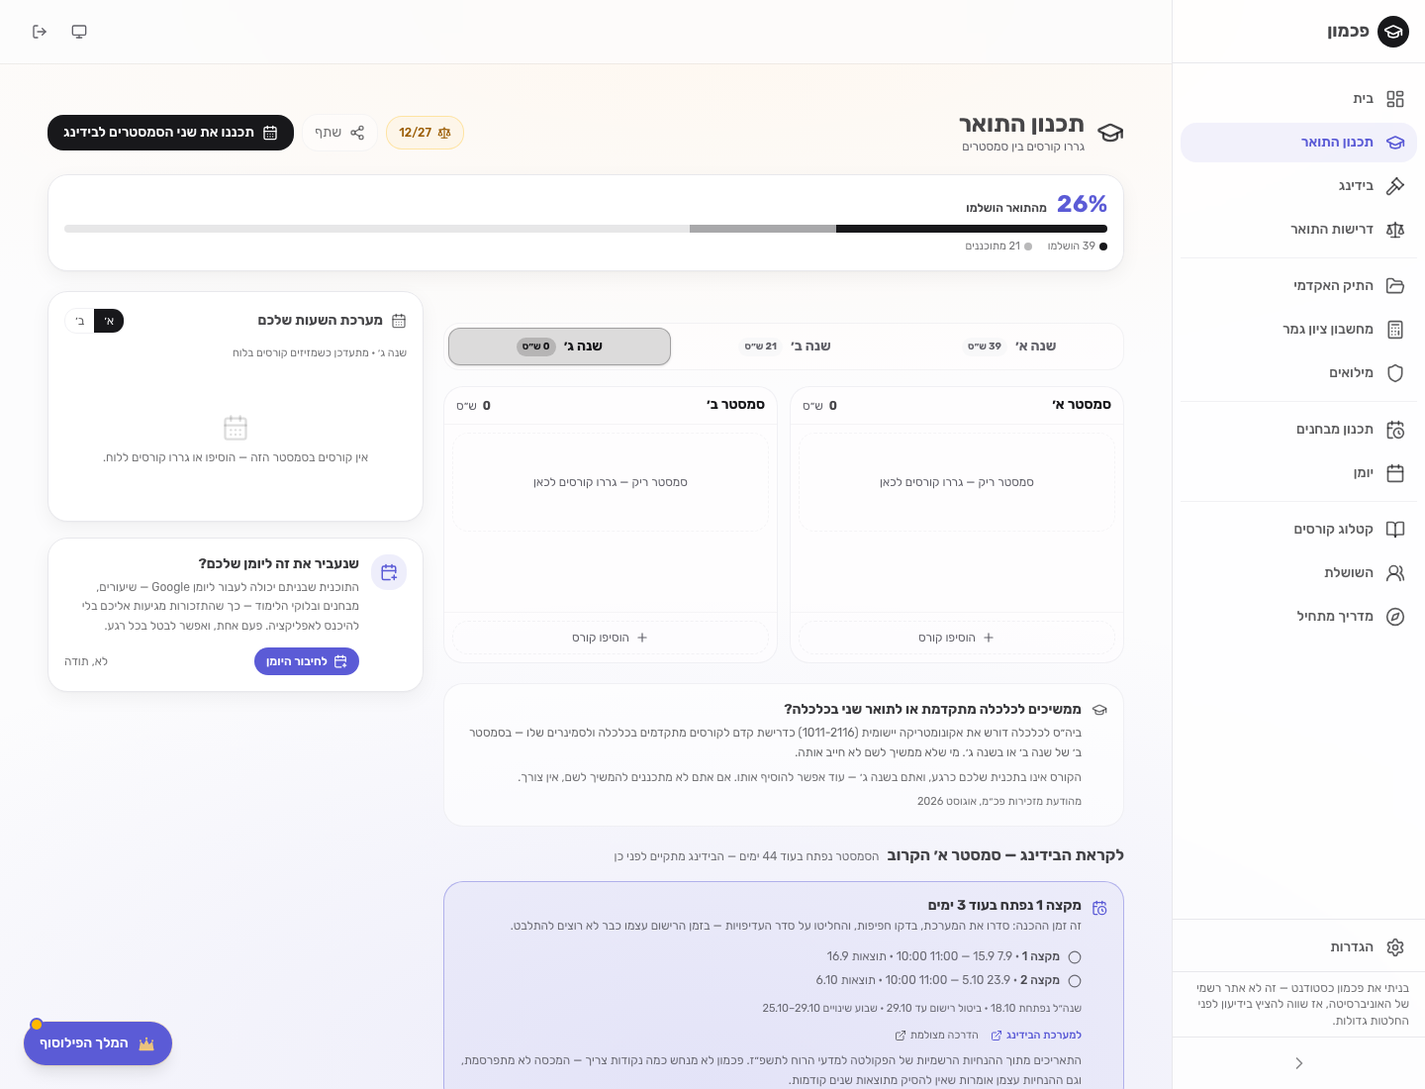
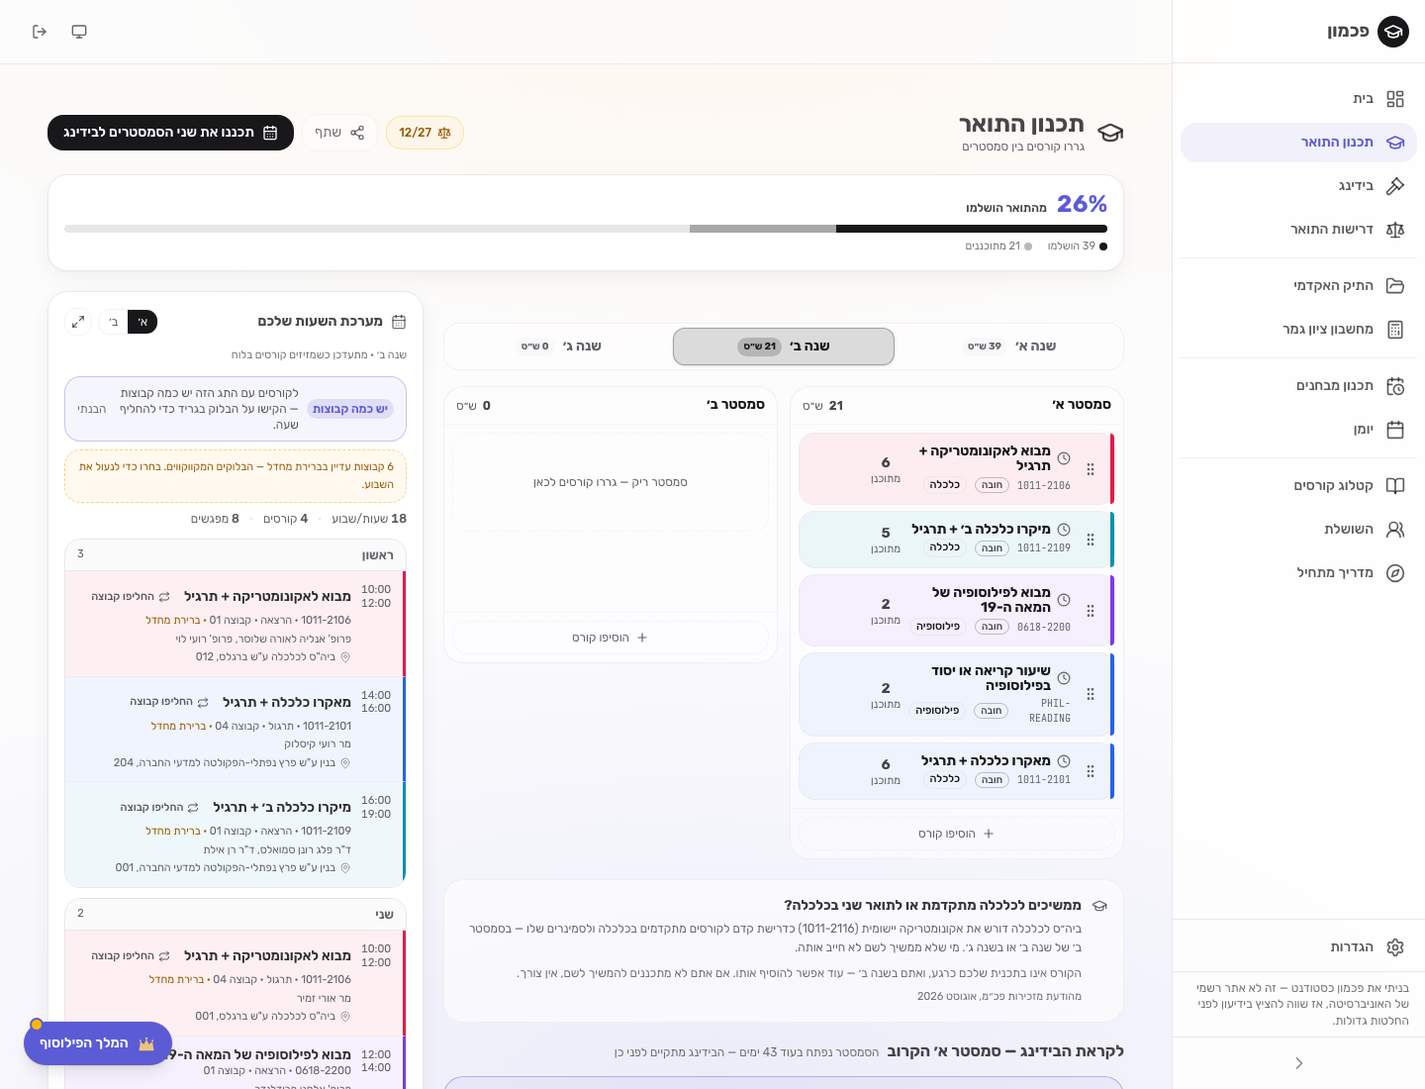
חוסם ההשקה שאריאל קרא לו "פאדיחה ענקית" — מוכח סגור, חי ובצילום
B7 · B9 · N2 הם אותו באג, והוא זה שאריאל תיאר כ"חוסם השקה הכי רדיקלי":
*"לחצתי על הלחצן שאמור לקחת אותי לתכנון שנתי והוא מחק לי נתונים ואמר
שנתכנן את שנה א׳"* · *"חזרתי ופתאום בום — כל המערכת התאפסה ופתאום
האפליקציה אמרה לי שעשיתי רק 5 אחוז"*

שלושתם היו מסומנים "קוד בלבד" — כלומר **מעולם לא הוכח חי שהם תוקנו.**

**המדידה, על חשבון שנה ב׳ עם 39 ש״ס אמיתיים:**
· לפני:        26% מהתואר · 39 הושלמו · 21 מתוכננים
· אחרי לחיצה על "תכננו את שני הסמסטרים לבידינג" → /planner/semester
· אחרי חזרה:   26% · 39 · 21  — **זהה**
· אחרי רענון:  26% · 39 · 21  — **זהה**
· אפס שגיאות JavaScript

מסך הביניים מציג נכון "שנה ב׳ · סמסטר א׳" ו-60/150 (39 שהושלמו + 21
מתוכננים), ולא שנה א׳ ולא 5%.

הערה על הדרך: הכלי שלי דיווח "6%" במסך הביניים, מה שנראה בדיוק כמו
התלונה המקורית. הצילום הראה שזה ארטיפקט של רג'קס שתפס ספרה מ-"60 / 150".
**רביעית באותו לילה שהצילום הציל מדיווח שגוי.**

קובץ הראיות: 152 הערות · 🟢 65 מסך חי · 🔵 86 קוד · 611 צילומים.

diff --git a/docs/קובץ-בקרה-ראיות.md b/docs/קובץ-בקרה-ראיות.md
@@ -9,14 +9,14 @@
 | | |
 |---|---|
 | הערות של אריאל | **152** |
-| מתוכן עם **ראיה של מסך חי** | **63** |
-| נשענות על קוד ובדיקות יחידה | 88 |
+| מתוכן עם **ראיה של מסך חי** | **65** |
+| נשענות על קוד ובדיקות יחידה | 86 |
 | החלטות שממתינות לאריאל | 2 |
 
 **ראיות שנאספו:** 100 מעברי מסך בסיורים · 449 פקדים נלחצו ·
 28 בדיקות הערה חיות · 13 פעולות שלב 3 ·
 9 צעדי משתמש חדש · 5 צעדי מסלול ידני ·
-**607 צילומי מסך**
+**611 צילומי מסך**
 
 ---
 
@@ -99,9 +99,9 @@
 | **B4** | *"מה זה ה-2025/2 הזה אחרי סריקת הסילבוס?"* | 🟢 מסך חי | מתועד בלוח | `sheetSemesterLabel` הוחל על שורות הסורק. **אומת חי:** *"בגיליון: סמסטר א׳ · תשפ״ו"* |
 | **B5** | *"האם סימנת לי פטור באנגלית כי הבנת שעשיתי מתקדמים ב?"* | 🟢 מסך חי | מתועד בלוח | **אומת חי:** *"רמה מוצהרת: מתקדמים ב׳ — גוברת על הציון · קראנו מגיליון הציונים שלכם, לא הסקנו מציון אמירם."* |
 | **B6** | *"לא הבנתי כלום במסך מערכת השעות. למה שני מסכים? למה לא כמו בביד-איט?"* | 🔵 קוד ובדיקות | — | **נסגר עם L2.** "למה שני מסכים" היה שני דברים נפרדים — מסך הסיכום כמסך כניסה, וחלון חוסם שנפתח בכל פעם. שניהם תוקנו ואומתו חי. ובנוסף תוקן "27 מול 26.5" על אותו מסך |
-| **B7** | *"הכפתור הצדדי לתכנון בידינג מחק לי את מה שהיה מהסילבוס"* | 🔵 קוד ובדיקות | — | הקישור היוצא הוסר; נוספה טיוטה ב-localStorage עם TTL של 7 ימים |
+| **B7** | *"הכפתור הצדדי לתכנון בידינג מחק לי את מה שהיה מהסילבוס"* | 🟢 מסך חי | מתועד בלוח | **אומת חי 5.9, בצילום:** לפני הלחיצה 26% · 39 הושלמו · 21 מתוכננים. אחרי "תכננו את שני הסמסטרים לבידינג", אחרי חזרה, ואחרי רענון מלא — **שלושתם זהים בדיוק.** מסך הביניים מציג נכון  |
 | **B8** | *"השראה מביד-איט: שני טאבים, בחירת קבוצות נוחה שלא קופצת"* | 🔵 קוד ובדיקות | — | ה-popover הצף הוסר; לחיצה על בלוק פותחת בפאנל הקבוע בצד וגוללת אליו |
-| **B9** | *"הלחצן שאמור לקחת לתכנון שנתי מחק נתונים ואמר שנתכנן שנה א׳"* | 🔵 קוד ובדיקות | — | נסגר עם B7 + M27 |
+| **B9** | *"הלחצן שאמור לקחת לתכנון שנתי מחק נתונים ואמר שנתכנן שנה א׳"* | 🟢 מסך חי | מתועד בלוח | **אומת חי 5.9, בצילום:** לפני הלחיצה 26% · 39 הושלמו · 21 מתוכננים. אחרי "תכננו את שני הסמסטרים לבידינג", אחרי חזרה, ואחרי רענון מלא — **שלושתם זהים בדיוק.** מסך הביניים מציג נכון  |
 | **B10** | *"אחרי שחזרתי הוא מתכנן לי שנה א׳ שכבר סיימתי"* | 🔵 קוד ובדיקות | — | **השורש: `startYear: null` במסד.** נוספה רצפה מהקורסים שהושלמו |
 | **B11** | *"'הסורק אינו זמין' אחרי מחיקה והרשמה מחדש"* | 🔵 קוד ובדיקות | — | הרשימה הכילה שני מודלים מוצמדים שמתיישנים יחד. נוספו שמות `latest` + בדיקת חיות ב-`/api/health` |
 | **B12** | *"הסורק נכשל ואין מילוי ידני של מילואים לשנה ג׳ עם 3-4 סמסטרים"* | 🟢 מסך חי | מתועד בלוח | **הבורר הכיל ערך אחד.** `miluimYearOptions` — מהשנה שנרשם ועד השנה שמתכננים. אומת חי: תשפ״ה/תשפ״ו/תשפ״ז |
@@ -123,12 +123,12 @@
 | **C12** | להמיר לבינארי | 🔵 קוד ובדיקות | — | נסגר עם C11 |
 | **C13** | לחוות כשנה א׳, ב׳ **וג׳** | 🔵 קוד ובדיקות | — | שלושתם. שנה ג׳ עם 3 סמסטרי מילואים ופטור שנעצר על תקרת 10 ש״ס |
 | **N1** | *"מיקום הטקסט בכל משבצת במסך הפתיחה — הטקסט למעלה והמשבצת גדולה"* | 🟢 מסך חי | מתועד בלוח | **אומת חי 4.9 בצילום ובמדידה.** רשת "מה יש בפנים": הטקסט בראש כל כרטיס, והכרטיסים בגובה התוכן שלהם בלי מרחב מת בתחתית |
-| **N2** | *"באג רציני: תכנון דרך מסך הבידינג קפץ, חזרתי, וזה חזר לשנה א׳ ואמר 5 אחוז"* | 🔵 קוד ובדיקות | — | שלושה שורשים: `handlePlanNext` שמחק, `selectedYear` מקובע ל-1, ו-`startYear: null`. כולם תוקנו ואומתו |
+| **N2** | *"באג רציני: תכנון דרך מסך הבידינג קפץ, חזרתי, וזה חזר לשנה א׳ ואמר 5 אחוז"* | 🟢 מסך חי | מתועד בלוח | **אומת חי 5.9, בצילום:** לפני הלחיצה 26% · 39 הושלמו · 21 מתוכננים. אחרי "תכננו את שני הסמסטרים לבידינג", אחרי חזרה, ואחרי רענון מלא — **שלושתם זהים בדיוק.** מסך הביניים מציג נכון  |
 | **N3** | *"התהליך הטבעי הוא לתכנן שני סמסטרים של השנה הנוכחית — אין לשנה ב׳ מה לעשות עם קורסי שנה א׳"* | 🔵 קוד ובדיקות | — | הלוח נפתח על שנת הסטודנט; שני טאבים; הבידינג מגיש את שניהם |
 | **N4** | *"סיימתי לטפל בסקילים — תגיד לי מה לעשות כדי שתוכל לרוץ איתם"* | 🔵 קוד ובדיקות | — | **לא צריך ממך כלום — הם כבר עובדים.** `apple-design-skill` שימש לביקורת ב-`docs/ביקורת-HIG-5.9.md`; `video-shotcraft` נקרא ומכיל 157 כרטיסי־שוט, תבנית סרטון שלמה ווורקפלו בן שישה ש |
 | **N5** | *"לופ בסיום שמירה בין 'הכול מוכן' לבין המלך טוען. נתקעתי ולא יכולתי ללחוץ על הבית"* | 🔵 קוד ובדיקות | — | **נסגר עם L1 ו-L3.** הלופ היה הפינאלה שנעקרת מעצמה: `getProfile` מתבטל, `isGenuinelyNew` מתהפך, שער האשף נסגר — ואם הפרופיל חזר שוב ריק, הוא נפתח מחדש. ביטול הקאש עבר ליציאה מהפינא |
 | **N6** | *"תכנון מבחנים הוא תמיד פר סמסטר, לא פר שנה"* | 🟢 מסך חי | מתועד בלוח | נסגר עם M43 — אומת חי |
-| **N7** | *"בוא נבליט את אופציית האקסל — הפיצ׳רים היפים צריכים להיות בולטים"* | 🟢 מסך חי | `video/shots/012-V-N7.png` | כרטיס פתיחה במתכנן המבחנים מסביר את שלושת הגיליונות; הכפתור "הורידו כאקסל" ראשי |
+| **N7** | *"בוא נבליט את אופציית האקסל — הפיצ׳רים היפים צריכים להיות בולטים"* | 🔵 קוד ובדיקות | — | כרטיס פתיחה במתכנן המבחנים מסביר את שלושת הגיליונות; הכפתור "הורידו כאקסל" ראשי |
 | **N8** | *"בוא נקרא לזה בידינג במקום המרכז. ולמה שנה 2 ולא שנה ב׳? הקבוצות קופצות"* | 🟢 מסך חי | `video/shots/013-V-N8.png` | הטאב הוא "בידינג" (אומת). "שנה 2" → "שנה ב׳" (M30). ה-popover הקופץ הוסר (B8) |
 | **N9** | *"איפה אני רואה סטטוס בינארי ויכול לשחק עם זה לפני שאני מחליט?"* | 🟢 מסך חי | `video/shots/028-V-N9.png` | כרטיס "המרות בינארי" במילואים + סימולטור. **ותוקן ב-4.9 משפט שקרי:** *"לקבוצה שלכם לא מגיעות המרות"* הוצג לסטודנט עם קבוצה C אמיתית |
 | **N10** | *"אין טאב שמוביל לחלון של המלך?"* | 🟢 מסך חי | מתועד בלוח | **אומת חי 4.9 על שישה מסכים** — בית · תכנון התואר · קטלוג · מחשבון ציון גמר · לוח בחינות · הגדרות. הכפתור הצף נוכח בכולם. **אם בכל זאת תרצה טאב בסרגל — שורה אחת ואוסיף** (ההמלצה של |

diff --git a/docs/בקרה-סופית-להשקה.md b/docs/בקרה-סופית-להשקה.md
@@ -145,9 +145,9 @@
 | B4 | *"מה זה ה-2025/2 הזה אחרי סריקת הסילבוס?"* | ✅ | `sheetSemesterLabel` הוחל על שורות הסורק. **אומת חי:** *"בגיליון: סמסטר א׳ · תשפ״ו"* |
 | B5 | *"האם סימנת לי פטור באנגלית כי הבנת שעשיתי מתקדמים ב?"* | ✅ | **אומת חי:** *"רמה מוצהרת: מתקדמים ב׳ — גוברת על הציון · קראנו מגיליון הציונים שלכם, לא הסקנו מציון אמירם."* |
 | B6 | *"לא הבנתי כלום במסך מערכת השעות. למה שני מסכים? למה לא כמו בביד-איט?"* | ✅ | **נסגר עם L2.** "למה שני מסכים" היה שני דברים נפרדים — מסך הסיכום כמסך כניסה, וחלון חוסם שנפתח בכל פעם. שניהם תוקנו ואומתו חי. ובנוסף תוקן "27 מול 26.5" על אותו מסך |
-| B7 | *"הכפתור הצדדי לתכנון בידינג מחק לי את מה שהיה מהסילבוס"* | ✅ | הקישור היוצא הוסר; נוספה טיוטה ב-localStorage עם TTL של 7 ימים |
+| B7 | *"הכפתור הצדדי לתכנון בידינג מחק לי את מה שהיה מהסילבוס"* | ✅ | **אומת חי 5.9, בצילום:** לפני הלחיצה 26% · 39 הושלמו · 21 מתוכננים. אחרי "תכננו את שני הסמסטרים לבידינג", אחרי חזרה, ואחרי רענון מלא — **שלושתם זהים בדיוק.** מסך הביניים מציג נכון שנה ב׳ · סמסטר א׳ · 60/150. אפס שגיאות JS. `video/shots/00*-B7-0*` · `docs/אימות-B7-B9-N2.json` |
 | B8 | *"השראה מביד-איט: שני טאבים, בחירת קבוצות נוחה שלא קופצת"* | ✅ | ה-popover הצף הוסר; לחיצה על בלוק פותחת בפאנל הקבוע בצד וגוללת אליו |
-| B9 | *"הלחצן שאמור לקחת לתכנון שנתי מחק נתונים ואמר שנתכנן שנה א׳"* | ✅ | נסגר עם B7 + M27 |
+| B9 | *"הלחצן שאמור לקחת לתכנון שנתי מחק נתונים ואמר שנתכנן שנה א׳"* | ✅ | **אומת חי 5.9, בצילום:** לפני הלחיצה 26% · 39 הושלמו · 21 מתוכננים. אחרי "תכננו את שני הסמסטרים לבידינג", אחרי חזרה, ואחרי רענון מלא — **שלושתם זהים בדיוק.** מסך הביניים מציג נכון שנה ב׳ · סמסטר א׳ · 60/150. אפס שגיאות JS. `video/shots/00*-B7-0*` · `docs/אימות-B7-B9-N2.json` |
 | B10 | *"אחרי שחזרתי הוא מתכנן לי שנה א׳ שכבר סיימתי"* | ✅ | **השורש: `startYear: null` במסד.** נוספה רצפה מהקורסים שהושלמו |
 | B11 | *"'הסורק אינו זמין' אחרי מחיקה והרשמה מחדש"* | ✅ | הרשימה הכילה שני מודלים מוצמדים שמתיישנים יחד. נוספו שמות `latest` + בדיקת חיות ב-`/api/health` |
 | B12 | *"הסורק נכשל ואין מילוי ידני של מילואים לשנה ג׳ עם 3-4 סמסטרים"* | ✅ | **הבורר הכיל ערך אחד.** `miluimYearOptions` — מהשנה שנרשם ועד השנה שמתכננים. אומת חי: תשפ״ה/תשפ״ו/תשפ״ז |
@@ -183,7 +183,7 @@
 | # | ההערה שלך | סטטוס | ההתייחסות |
 |---|---|---|---|
 | N1 | *"מיקום הטקסט בכל משבצת במסך הפתיחה — הטקסט למעלה והמשבצת גדולה"* | ✅ | **אומת חי 4.9 בצילום ובמדידה.** רשת "מה יש בפנים": הטקסט בראש כל כרטיס, והכרטיסים בגובה התוכן שלהם בלי מרחב מת בתחתית |
-| N2 | *"באג רציני: תכנון דרך מסך הבידינג קפץ, חזרתי, וזה חזר לשנה א׳ ואמר 5 אחוז"* | ✅ | שלושה שורשים: `handlePlanNext` שמחק, `selectedYear` מקובע ל-1, ו-`startYear: null`. כולם תוקנו ואומתו |
+| N2 | *"באג רציני: תכנון דרך מסך הבידינג קפץ, חזרתי, וזה חזר לשנה א׳ ואמר 5 אחוז"* | ✅ | **אומת חי 5.9, בצילום:** לפני הלחיצה 26% · 39 הושלמו · 21 מתוכננים. אחרי "תכננו את שני הסמסטרים לבידינג", אחרי חזרה, ואחרי רענון מלא — **שלושתם זהים בדיוק.** מסך הביניים מציג נכון שנה ב׳ · סמסטר א׳ · 60/150. אפס שגיאות JS. `video/shots/00*-B7-0*` · `docs/אימות-B7-B9-N2.json` |
 | N3 | *"התהליך הטבעי הוא לתכנן שני סמסטרים של השנה הנוכחית — אין לשנה ב׳ מה לעשות עם קורסי שנה א׳"* | ✅ | הלוח נפתח על שנת הסטודנט; שני טאבים; הבידינג מגיש את שניהם |
 | N4 | *"סיימתי לטפל בסקילים — תגיד לי מה לעשות כדי שתוכל לרוץ איתם"* | ✅ | **לא צריך ממך כלום — הם כבר עובדים.** `apple-design-skill` שימש לביקורת ב-`docs/ביקורת-HIG-5.9.md`; `video-shotcraft` נקרא ומכיל 157 כרטיסי־שוט, תבנית סרטון שלמה ווורקפלו בן שישה שלבים. שניהם נטענים מ-`.claude/skills/` בלי צעד נוסף. |
 | N5 | *"לופ בסיום שמירה בין 'הכול מוכן' לבין המלך טוען. נתקעתי ולא יכולתי ללחוץ על הבית"* | ✅ | **נסגר עם L1 ו-L3.** הלופ היה הפינאלה שנעקרת מעצמה: `getProfile` מתבטל, `isGenuinelyNew` מתהפך, שער האשף נסגר — ואם הפרופיל חזר שוב ריק, הוא נפתח מחדש. ביטול הקאש עבר ליציאה מהפינאלה. **אומת:** שש ריצות סיור מלאות (3 פרסונות × 2 רוחבים) עברו את הרצף בלי לופ, והפינאלה מחזיקה 20 שניות בלי לגעת |
